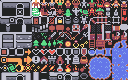
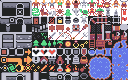
Added transparency to more sprites, changed format of npc

diff --git a/src/Level.cpp b/src/Level.cpp
@@ -127,7 +127,7 @@ void Level::loadNPCs(std::string playerName, std::string saveName, std::string l
         {
             // TODO: write unit test for level loading functions
             // TODO: change npc texture format to match player
-            xml_node textureEl = npcEl.child("texture");
+            xml_node textureEl = npcEl.child("animation").child("frame");
             if (textureEl.attribute("src").as_string() != "")
             {
                 SDL_Rect *cropRect, *outDim;

diff --git a/src/Entity.cpp b/src/Entity.cpp
@@ -28,6 +28,7 @@ void Entity::update() {
 
 void Entity::render() {
     SDL_Rect dst{x, y, texw, texh};
+    SDL_SetTextureBlendMode(texture, SDL_BLENDMODE_BLEND);
     SDL_RenderCopy(Game::renderer, texture, nullptr, &dst);
 }
 

diff --git a/src/AI.cpp b/src/AI.cpp
@@ -26,6 +26,7 @@ void AI::update() {
 
 void AI::render() {
     SDL_Rect dst{x, y, texw, texh};
+    SDL_SetTextureBlendMode(texture, SDL_BLENDMODE_BLEND);
     SDL_RenderCopy(Game::renderer, texture, nullptr, &dst);
 }
 
